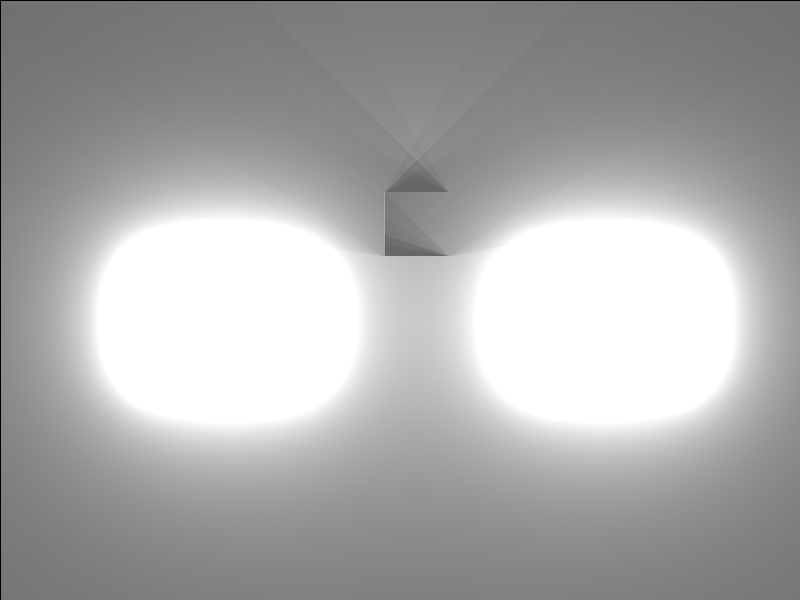
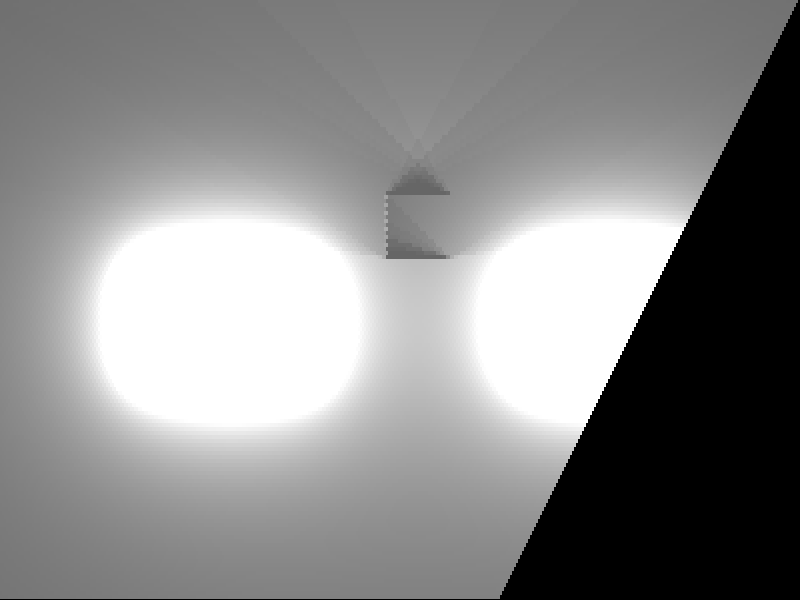
Shifted all light calculation coordinates
Broken - bad lightmaps

Changed region(s): [[0.0, 0.0, 1.0, 1.0], [0.4688, 0.42, 0.5625, 0.45], [0.4688, 0.3, 0.5625, 0.33]]

diff --git a/modules/lightcalc.py b/modules/lightcalc.py
@@ -19,6 +19,9 @@ class CalcSegment:
         for x in range(x0, x1, xinc):
             self.pipe.send(['message', '{}-{} at {}'.format(x0, x1, x)])
             for y in range(1, 600, yinc):
+                x = int(x - (xinc / 2))
+                y = int(y - (yinc / 2))
+                
                 self.pipe.send([[x, y], self.calc_light(x, y)])
         self.pipe.send('done')
     
